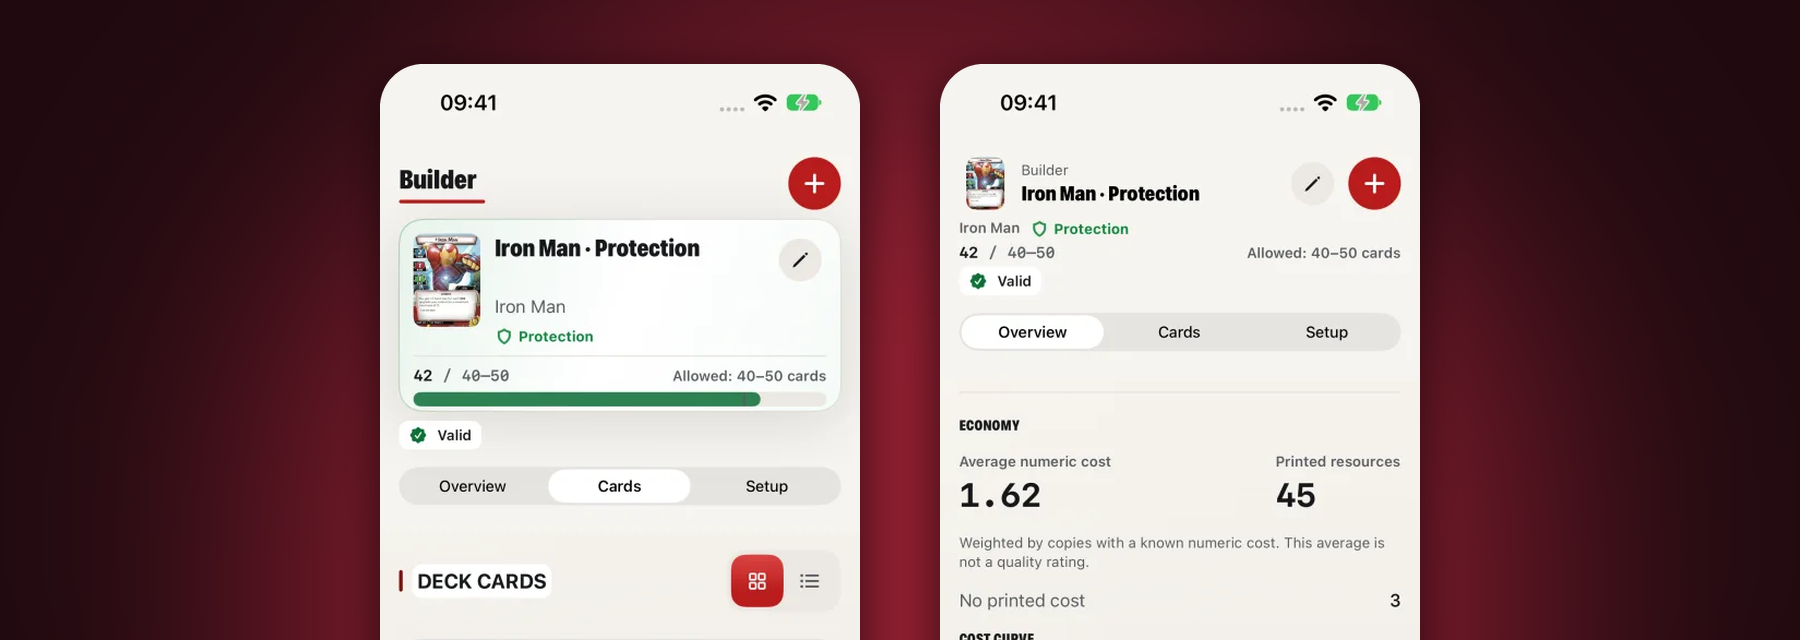
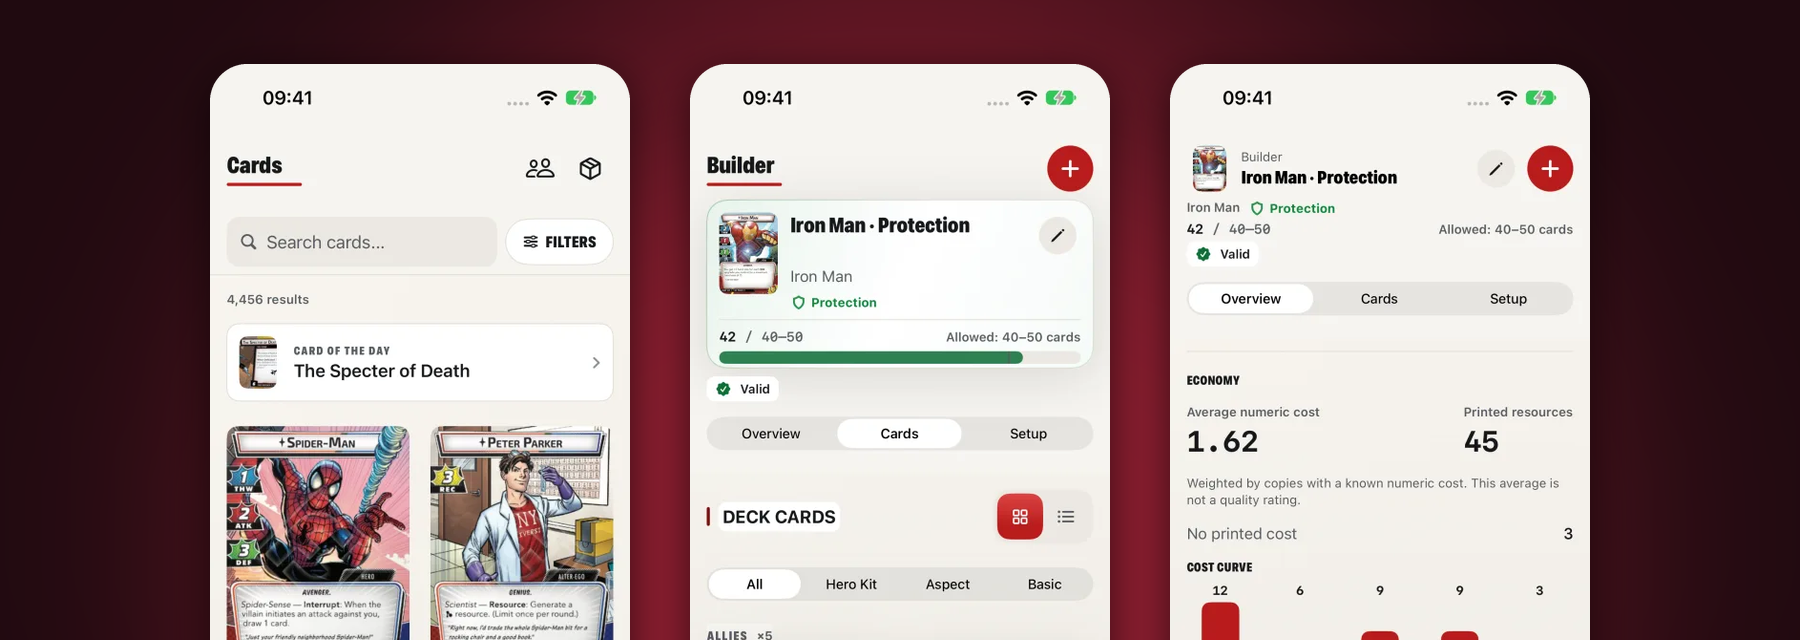
feat: show the card catalogue in the Mulligan image

diff --git a/ASSET_PROVENANCE.md b/ASSET_PROVENANCE.md
@@ -90,9 +90,9 @@ One image per project sits at the top of its entry in the README, so a reader se
 ### `assets/projects/mulligan.png`
 
 - Asset: `assets/projects/mulligan.png`.
-- Source: two English screenshots of the published app (builder, deck analysis), as published on ogamlabs.com. The catalogue screenshot is left out because it is dominated by licensed card art; the builder shows one small card thumbnail.
+- Source: three English screenshots of the published app (card catalogue, builder, deck analysis), as published on ogamlabs.com. The catalogue shows Marvel Champions card art, which belongs to its rights holders; Mulligan is a free, fan-made app and the art appears only as part of the app's own interface.
 - Transformation: screens placed on a tinted background with rounded corners, at 1800x640; the screens are cropped at the bottom. Screen contents are not altered.
[2 lines of base64/hex data omitted]
 
 ### `assets/projects/ios-architecture.png`
 

diff --git a/README.md b/README.md
@@ -68,7 +68,7 @@ catalogue and the store assets.
 
 🃏 Swift 6, SwiftUI, GRDB · iPhone and iPad
 
-![Mulligan on iPhone: the deck builder and the analysis of a valid deck](assets/projects/mulligan.png)
+![Mulligan on iPhone: the card catalogue with Spider-Man and Peter Parker cards, the deck builder and the analysis of a valid deck](assets/projects/mulligan.png)
 
 A free, fan-made deck builder for Marvel Champions: browse the card catalogue,
 build and validate decks, track the packs you own, read the rules and import
